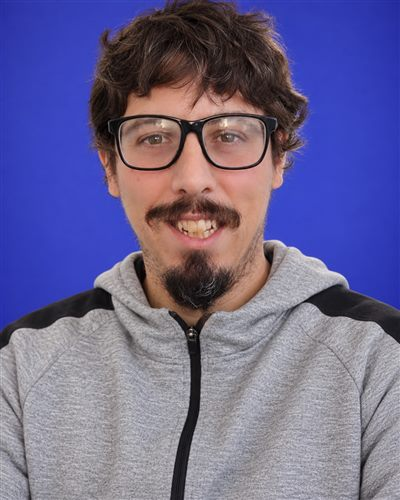
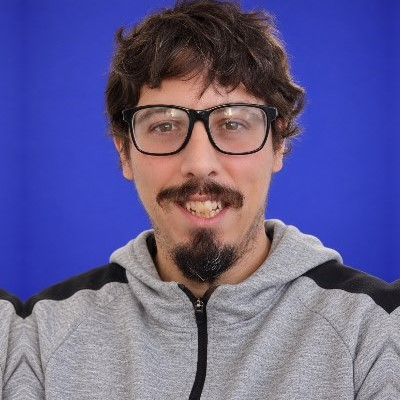
Equipo: unifica el tamaño de cara en las fotos y mejora nitidez (ES/EN/PT)
- Javier Urtubey: usa la versión con encuadre más abierto (Marketing/Fotos 2026) recortada al mismo tamaño de cara que el resto
- Rodrigo Arce: re-encuadre desde el original para que no se corte la cara
- Lucas Acosta: aleja un poco el encuadre para igualar al resto
- Eduardo, Ariela, Cecilia, Santiago Baya Casal: pasan de webp 1122x1402 a jpg redimensionado en alta calidad (se veían pixeladas al reducirlas en el navegador)

diff --git a/pt/equipo.html b/pt/equipo.html
@@ -205,22 +205,22 @@
   var TEAM = [
     { name: 'Santiago Cordone', role: 'CEO', photo: '../assets/equipo/santiago-cordone.jpg', linkedin: 'https://www.linkedin.com/company/pausaco' },
     { name: 'Joaquín De La Vega', role: 'Gerente de Produto', photo: '../assets/equipo/joaquin-de-la-vega.jpg', linkedin: 'https://www.linkedin.com/company/pausaco' },
-    { name: 'Cecilia Hermida', role: 'PMO', photo: '../assets/equipo/cecilia-hermida.webp', linkedin: 'https://www.linkedin.com/company/pausaco' },
+    { name: 'Cecilia Hermida', role: 'PMO', photo: '../assets/equipo/cecilia-hermida.jpg', linkedin: 'https://www.linkedin.com/company/pausaco' },
     { name: 'Clara Barthe', role: 'Financial Controller', photo: '../assets/equipo/clara-barthe.jpg', linkedin: 'https://www.linkedin.com/company/pausaco' },
     { name: 'Milena Fuchs', role: 'Desenvolvedora', photo: '../assets/equipo/milena-fuchs.jpg', linkedin: 'https://www.linkedin.com/company/pausaco' },
     { name: 'Rodrigo Arce', role: 'Líder de Tecnologia', photo: '../assets/equipo/rodrigo-arce.jpg', linkedin: 'https://www.linkedin.com/company/pausaco' },
-    { name: 'Javier Urtubey', role: 'COO', photo: '../assets/equipo/javier-urtubey.webp', linkedin: 'https://www.linkedin.com/company/pausaco' },
+    { name: 'Javier Urtubey', role: 'COO', photo: '../assets/equipo/javier-urtubey.jpg', linkedin: 'https://www.linkedin.com/company/pausaco' },
     { name: 'Sofía Ferrari', role: 'Desenvolvedora', photo: '../assets/equipo/sofia-ferrari.jpg', linkedin: 'https://www.linkedin.com/company/pausaco' },
     { name: 'Federico Acevedo', role: 'CFO', photo: '../assets/equipo/federico-acevedo.jpg', linkedin: 'https://www.linkedin.com/company/pausaco' },
-    { name: 'Lucas Acosta', role: 'Head of Customer Success', photo: '../assets/equipo/lucas-acosta.webp', linkedin: 'https://www.linkedin.com/company/pausaco' },
-    { name: 'Santiago Baya Casal', role: 'Desenvolvedor', photo: '../assets/equipo/santiago-baya-casal.webp', linkedin: 'https://www.linkedin.com/company/pausaco' },
+    { name: 'Lucas Acosta', role: 'Head of Customer Success', photo: '../assets/equipo/lucas-acosta.jpg', linkedin: 'https://www.linkedin.com/company/pausaco' },
+    { name: 'Santiago Baya Casal', role: 'Desenvolvedor', photo: '../assets/equipo/santiago-baya-casal.jpg', linkedin: 'https://www.linkedin.com/company/pausaco' },
     { name: 'Miguel Reynal', role: 'Facilitador Pausa', photo: '../assets/equipo/miguel-reynal.jpg', linkedin: 'https://www.linkedin.com/company/pausaco' },
-    { name: 'Ariela Schulman', role: 'Facilitadora Pausa', photo: '../assets/equipo/ariela-schulman.webp', linkedin: 'https://www.linkedin.com/company/pausaco' },
+    { name: 'Ariela Schulman', role: 'Facilitadora Pausa', photo: '../assets/equipo/ariela-schulman.jpg', linkedin: 'https://www.linkedin.com/company/pausaco' },
     { name: 'Paz Porres', role: 'Facilitadora Pausa', photo: '../assets/equipo/paz-porres.jpg', linkedin: 'https://www.linkedin.com/company/pausaco' },
     { name: 'Felipe Caracoix', role: 'Desenvolvedor', photo: '../assets/equipo/felipe-caracoix.jpg', linkedin: 'https://www.linkedin.com/company/pausaco' },
     { name: 'Juan Guyot', role: 'Facilitador Pausa', photo: '../assets/equipo/juan-guyot.jpg', linkedin: 'https://www.linkedin.com/company/pausaco' },
     { name: 'Juan Pedro Arocena', role: 'Líder de Consultoria', photo: '../assets/equipo/juan-pedro-arocena.jpg', linkedin: 'https://www.linkedin.com/company/pausaco' },
-    { name: 'Eduardo Bruchou', role: 'Head of Growth', photo: '../assets/equipo/eduardo-bruchou.webp', linkedin: 'https://www.linkedin.com/company/pausaco' }
+    { name: 'Eduardo Bruchou', role: 'Head of Growth', photo: '../assets/equipo/eduardo-bruchou.jpg', linkedin: 'https://www.linkedin.com/company/pausaco' }
   ];
 
   var AVATAR_SVG = '<svg width="56" height="56" viewBox="0 0 24 24" fill="none" xmlns="http://www.w3.org/2000/svg"><circle cx="12" cy="8" r="4" fill="#BFC5FF"/><path d="M4 20c0-4.4 3.6-8 8-8s8 3.6 8 8" fill="#BFC5FF"/></svg>';

diff --git a/en/equipo.html b/en/equipo.html
@@ -205,22 +205,22 @@
   var TEAM = [
     { name: 'Santiago Cordone', role: 'CEO', photo: '../assets/equipo/santiago-cordone.jpg', linkedin: 'https://www.linkedin.com/company/pausaco' },
     { name: 'Joaquín De La Vega', role: 'Product Manager', photo: '../assets/equipo/joaquin-de-la-vega.jpg', linkedin: 'https://www.linkedin.com/company/pausaco' },
-    { name: 'Cecilia Hermida', role: 'PMO', photo: '../assets/equipo/cecilia-hermida.webp', linkedin: 'https://www.linkedin.com/company/pausaco' },
+    { name: 'Cecilia Hermida', role: 'PMO', photo: '../assets/equipo/cecilia-hermida.jpg', linkedin: 'https://www.linkedin.com/company/pausaco' },
     { name: 'Clara Barthe', role: 'Financial Controller', photo: '../assets/equipo/clara-barthe.jpg', linkedin: 'https://www.linkedin.com/company/pausaco' },
     { name: 'Milena Fuchs', role: 'Developer', photo: '../assets/equipo/milena-fuchs.jpg', linkedin: 'https://www.linkedin.com/company/pausaco' },
     { name: 'Rodrigo Arce', role: 'Technology Lead', photo: '../assets/equipo/rodrigo-arce.jpg', linkedin: 'https://www.linkedin.com/company/pausaco' },
-    { name: 'Javier Urtubey', role: 'COO', photo: '../assets/equipo/javier-urtubey.webp', linkedin: 'https://www.linkedin.com/company/pausaco' },
+    { name: 'Javier Urtubey', role: 'COO', photo: '../assets/equipo/javier-urtubey.jpg', linkedin: 'https://www.linkedin.com/company/pausaco' },
     { name: 'Sofía Ferrari', role: 'Developer', photo: '../assets/equipo/sofia-ferrari.jpg', linkedin: 'https://www.linkedin.com/company/pausaco' },
     { name: 'Federico Acevedo', role: 'CFO', photo: '../assets/equipo/federico-acevedo.jpg', linkedin: 'https://www.linkedin.com/company/pausaco' },
-    { name: 'Lucas Acosta', role: 'Head of Customer Success', photo: '../assets/equipo/lucas-acosta.webp', linkedin: 'https://www.linkedin.com/company/pausaco' },
-    { name: 'Santiago Baya Casal', role: 'Developer', photo: '../assets/equipo/santiago-baya-casal.webp', linkedin: 'https://www.linkedin.com/company/pausaco' },
+    { name: 'Lucas Acosta', role: 'Head of Customer Success', photo: '../assets/equipo/lucas-acosta.jpg', linkedin: 'https://www.linkedin.com/company/pausaco' },
+    { name: 'Santiago Baya Casal', role: 'Developer', photo: '../assets/equipo/santiago-baya-casal.jpg', linkedin: 'https://www.linkedin.com/company/pausaco' },
     { name: 'Miguel Reynal', role: 'Pausa Facilitator', photo: '../assets/equipo/miguel-reynal.jpg', linkedin: 'https://www.linkedin.com/company/pausaco' },
-    { name: 'Ariela Schulman', role: 'Pausa Facilitator', photo: '../assets/equipo/ariela-schulman.webp', linkedin: 'https://www.linkedin.com/company/pausaco' },
+    { name: 'Ariela Schulman', role: 'Pausa Facilitator', photo: '../assets/equipo/ariela-schulman.jpg', linkedin: 'https://www.linkedin.com/company/pausaco' },
     { name: 'Paz Porres', role: 'Pausa Facilitator', photo: '../assets/equipo/paz-porres.jpg', linkedin: 'https://www.linkedin.com/company/pausaco' },
     { name: 'Felipe Caracoix', role: 'Developer', photo: '../assets/equipo/felipe-caracoix.jpg', linkedin: 'https://www.linkedin.com/company/pausaco' },
     { name: 'Juan Guyot', role: 'Pausa Facilitator', photo: '../assets/equipo/juan-guyot.jpg', linkedin: 'https://www.linkedin.com/company/pausaco' },
     { name: 'Juan Pedro Arocena', role: 'Consulting Lead', photo: '../assets/equipo/juan-pedro-arocena.jpg', linkedin: 'https://www.linkedin.com/company/pausaco' },
-    { name: 'Eduardo Bruchou', role: 'Head of Growth', photo: '../assets/equipo/eduardo-bruchou.webp', linkedin: 'https://www.linkedin.com/company/pausaco' }
+    { name: 'Eduardo Bruchou', role: 'Head of Growth', photo: '../assets/equipo/eduardo-bruchou.jpg', linkedin: 'https://www.linkedin.com/company/pausaco' }
   ];
 
   var AVATAR_SVG = '<svg width="56" height="56" viewBox="0 0 24 24" fill="none" xmlns="http://www.w3.org/2000/svg"><circle cx="12" cy="8" r="4" fill="#BFC5FF"/><path d="M4 20c0-4.4 3.6-8 8-8s8 3.6 8 8" fill="#BFC5FF"/></svg>';

diff --git a/equipo.html b/equipo.html
@@ -206,22 +206,22 @@
   var TEAM = [
     { name: 'Santiago Cordone', role: 'CEO', photo: 'assets/equipo/santiago-cordone.jpg', linkedin: 'https://www.linkedin.com/company/pausaco' },
     { name: 'Joaquín De La Vega', role: 'Gerente de Producto', photo: 'assets/equipo/joaquin-de-la-vega.jpg', linkedin: 'https://www.linkedin.com/company/pausaco' },
-    { name: 'Cecilia Hermida', role: 'PMO', photo: 'assets/equipo/cecilia-hermida.webp', linkedin: 'https://www.linkedin.com/company/pausaco' },
+    { name: 'Cecilia Hermida', role: 'PMO', photo: 'assets/equipo/cecilia-hermida.jpg', linkedin: 'https://www.linkedin.com/company/pausaco' },
     { name: 'Clara Barthe', role: 'Financial Controller', photo: 'assets/equipo/clara-barthe.jpg', linkedin: 'https://www.linkedin.com/company/pausaco' },
     { name: 'Milena Fuchs', role: 'Desarrolladora', photo: 'assets/equipo/milena-fuchs.jpg', linkedin: 'https://www.linkedin.com/company/pausaco' },
     { name: 'Rodrigo Arce', role: 'Líder de Tecnología', photo: 'assets/equipo/rodrigo-arce.jpg', linkedin: 'https://www.linkedin.com/company/pausaco' },
-    { name: 'Javier Urtubey', role: 'COO', photo: 'assets/equipo/javier-urtubey.webp', linkedin: 'https://www.linkedin.com/company/pausaco' },
+    { name: 'Javier Urtubey', role: 'COO', photo: 'assets/equipo/javier-urtubey.jpg', linkedin: 'https://www.linkedin.com/company/pausaco' },
     { name: 'Sofía Ferrari', role: 'Desarrolladora', photo: 'assets/equipo/sofia-ferrari.jpg', linkedin: 'https://www.linkedin.com/company/pausaco' },
     { name: 'Federico Acevedo', role: 'CFO', photo: 'assets/equipo/federico-acevedo.jpg', linkedin: 'https://www.linkedin.com/company/pausaco' },
-    { name: 'Lucas Acosta', role: 'Head of Customer Success', photo: 'assets/equipo/lucas-acosta.webp', linkedin: 'https://www.linkedin.com/company/pausaco' },
-    { name: 'Santiago Baya Casal', role: 'Desarrollador', photo: 'assets/equipo/santiago-baya-casal.webp', linkedin: 'https://www.linkedin.com/company/pausaco' },
+    { name: 'Lucas Acosta', role: 'Head of Customer Success', photo: 'assets/equipo/lucas-acosta.jpg', linkedin: 'https://www.linkedin.com/company/pausaco' },
+    { name: 'Santiago Baya Casal', role: 'Desarrollador', photo: 'assets/equipo/santiago-baya-casal.jpg', linkedin: 'https://www.linkedin.com/company/pausaco' },
     { name: 'Miguel Reynal', role: 'Acompañante Pausa', photo: 'assets/equipo/miguel-reynal.jpg', linkedin: 'https://www.linkedin.com/company/pausaco' },
-    { name: 'Ariela Schulman', role: 'Acompañante Pausa', photo: 'assets/equipo/ariela-schulman.webp', linkedin: 'https://www.linkedin.com/company/pausaco' },
+    { name: 'Ariela Schulman', role: 'Acompañante Pausa', photo: 'assets/equipo/ariela-schulman.jpg', linkedin: 'https://www.linkedin.com/company/pausaco' },
     { name: 'Paz Porres', role: 'Acompañante Pausa', photo: 'assets/equipo/paz-porres.jpg', linkedin: 'https://www.linkedin.com/company/pausaco' },
     { name: 'Felipe Caracoix', role: 'Desarrollador', photo: 'assets/equipo/felipe-caracoix.jpg', linkedin: 'https://www.linkedin.com/company/pausaco' },
     { name: 'Juan Guyot', role: 'Acompañante Pausa', photo: 'assets/equipo/juan-guyot.jpg', linkedin: 'https://www.linkedin.com/company/pausaco' },
     { name: 'Juan Pedro Arocena', role: 'Líder de Consultoría', photo: 'assets/equipo/juan-pedro-arocena.jpg', linkedin: 'https://www.linkedin.com/company/pausaco' },
-    { name: 'Eduardo Bruchou', role: 'Head of Growth', photo: 'assets/equipo/eduardo-bruchou.webp', linkedin: 'https://www.linkedin.com/company/pausaco' }
+    { name: 'Eduardo Bruchou', role: 'Head of Growth', photo: 'assets/equipo/eduardo-bruchou.jpg', linkedin: 'https://www.linkedin.com/company/pausaco' }
   ];
 
   var AVATAR_SVG = '<svg width="56" height="56" viewBox="0 0 24 24" fill="none" xmlns="http://www.w3.org/2000/svg"><circle cx="12" cy="8" r="4" fill="#BFC5FF"/><path d="M4 20c0-4.4 3.6-8 8-8s8 3.6 8 8" fill="#BFC5FF"/></svg>';
